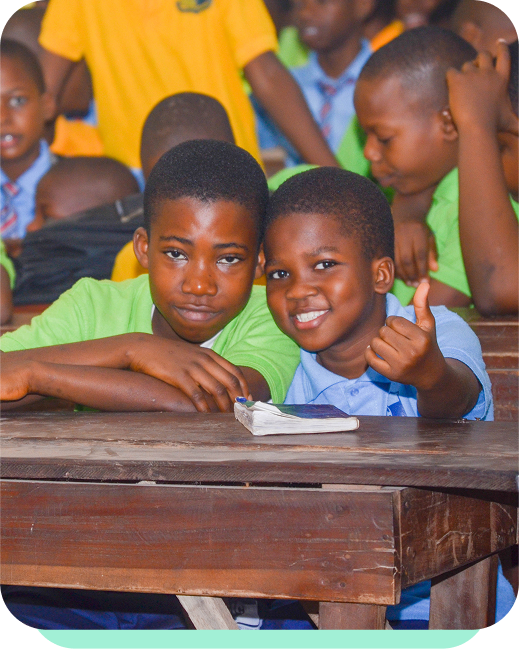
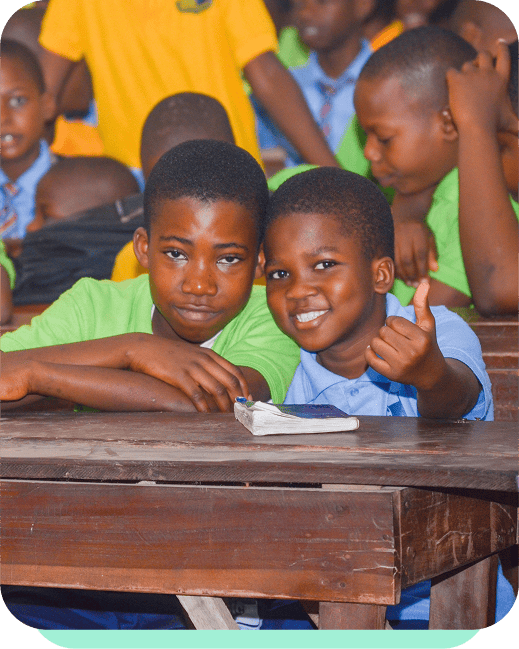
reduce image sizes

diff --git a/components/hero-section.tsx b/components/hero-section.tsx
@@ -1,11 +1,11 @@
 "use client";
 import { Button } from "@/components/ui/button";
 import Navbar from "./navbar";
-import { 
-  AnimatedContainer, 
-  AnimatedElement, 
-  AnimatedHeading, 
-  AnimatedText 
+import {
+  AnimatedContainer,
+  AnimatedElement,
+  AnimatedHeading,
+  AnimatedText,
 } from "@/components/ui/animated-element";
 import Link from "next/link";
 
@@ -13,37 +13,39 @@ export default function HeroSection() {
   return (
     <div className="md:p-2">
       <div
-        className="min-h-screen bg-[#F2F4FF] bg-[url('/images/hero-mobile.png')] md:bg-[url('/images/hero.png')] md:p-2 md:px-8 bg-cover bg-center bg-no-repeat relative overflow-x-hidden flex flex-col pb-[400px] rounded-xl md:rounded-[40px]"
+        className="min-h-screen md:min-h-[130vh] bg-[#F2F4FF] bg-[url('/images/hero-mobile.png')] md:bg-[url('/images/hero.png')] md:p-2 md:px-8 bg-cover bg-center bg-no-repeat relative overflow-x-hidden flex flex-col pb-[400px] rounded-xl md:rounded-[40px]"
         style={{ backgroundPosition: "center top" }}
       >
         <Navbar />
-        <div className="flex-grow flex items-center justify-center px-2 md:px-8 pt-10 md:pt-24 md:pb-40 w-full">
+        <div className="flex-grow flex items-center justify-center px-2 md:px-8 pt-10 md:-mt-[500px] lg:-mt-[230px] md:pb-40 w-full">
           <AnimatedContainer className="text-center w-full">
-            <AnimatedHeading 
+            <AnimatedHeading
               level={1}
               className="text-3xl md:text-[65px] font-medium text-secondary-900 leading-tight mb-8 w-full md:max-w-6xl mx-auto"
               delay={0.2}
             >
-              A Safe Space where struggling quietly is no longer the only option.
+              A Safe Space where struggling quietly is no longer the only
+              option.
             </AnimatedHeading>
-            
-            <AnimatedText 
+
+            <AnimatedText
               className="text-lg text-neutral-200 font-light mb-16 max-w-2xl mx-auto leading-relaxed"
               delay={0.4}
             >
-              MyGuy is Africa&apos;s first digital community that connects boys to
-              mentors, men to community, and everyone to healing.
+              MyGuy is Africa&apos;s first digital community that connects boys
+              to mentors, men to community, and everyone to healing.
             </AnimatedText>
-            
+
             <AnimatedElement
               delay={0.6}
               whileHover={{ scale: 1.05 }}
               whileTap={{ scale: 0.95 }}
             >
-              <Button className="text-white rounded-full px-8 py-4 text-lg font-medium" asChild>
-            <Link href="/waitlist">
-            Join the waitlist
-            </Link>
+              <Button
+                className="text-white rounded-full px-8 py-4 text-lg font-medium"
+                asChild
+              >
+                <Link href="/waitlist">Join the waitlist</Link>
               </Button>
             </AnimatedElement>
           </AnimatedContainer>

diff --git a/components/about-us.tsx b/components/about-us.tsx
@@ -24,11 +24,11 @@ export default function AboutUsSection() {
     },
   ];
   return (
-    <section className="bg-white mb-28">
+    <section className="bg-white mb-28 md:p-2">
       <>
         <div className="w-full md:max-w-6xl mx-auto text-center pt-24 pb-10 md:pb-24">
           <AnimatedContainer
-            className="grid grid-cols-1 md:grid-cols-2 lg:grid-cols-3 gap-8"
+            className="grid grid-cols-1 md:grid-co md:grid-cols-3 gap-8"
             variants={{
               hidden: {},
               visible: {
@@ -126,7 +126,7 @@ export default function AboutUsSection() {
         {/* My Partners section */}
         <div className="w-full max-w-5xl mx-auto text-center">
           <div className="flex justify-center items-center w-full">
-            <div className="grid grid-cols-1 md:grid-cols-2 lg:grid-cols-3 gap-5" style={{ width: "max-content" }}>
+            <div className="grid grid-cols-1 md:grid-cols-3 gap-5" style={{ width: "max-content" }}>
               <Image
                 src="/images/partner1.png"
                 alt="Partner 1"

diff --git a/components/about-founder-section.tsx b/components/about-founder-section.tsx
@@ -14,7 +14,7 @@ export default function AboutFounderSection() {
       <>
         <div className="w-full md:max-w-6xl mt-16 md:mt-32 mb-24 mx-auto flex justify-between flex-col lg:flex-row gap-2 md:gap-10 p-4 lg:p-0 font-light">
           <AnimatedElement
-            className="w-full lg:w-[35%]  justify-start"
+            className="w-full md:w-[35%]  justify-start"
             variants={fadeInRight}
             duration={0.8}
             delay={0.3}
@@ -28,7 +28,7 @@ export default function AboutFounderSection() {
                 className=""
               />
             </div>
-            <div className="mt-6 md:mt-10 flex relative flex-col  justify-center items-center">
+            <div className="mt-6 lg:mt-10 flex relative flex-col  justify-center items-center">
               <h1 className="md:text-[28px] z-10 text-secondary-900 text-3xl font-medium md:leading-[61px] tracking-[-1%] mb-2">
                 Solomon O. Ayodele
               </h1>

diff --git a/app/waitlist/page.tsx b/app/waitlist/page.tsx
@@ -6,7 +6,7 @@ import Link from "next/link";
 export default function Home() {
   return (
     <main
-      className="h-screen relative overflow-hidden flex items-center justify-center p-4"
+      className="h-screen relative overflow-hidden flex items-center justify-center p-2 md:p-4 bg-[#F2F4FF]"
       style={{
         backgroundImage: "url('/images/form-bg.png')",
         backgroundSize: "cover",
@@ -29,7 +29,7 @@ export default function Home() {
           />
         </Link>
       </div>
-      <div className="mt-12 w-full">
+      <div className="mt-[240px] md:mt-12 pb-5 w-full">
         <WaitlistForm />
       </div>
     </main>

diff --git a/components/navbar.tsx b/components/navbar.tsx
@@ -47,7 +47,7 @@ export default function Navbar() {
       </div>
 
       {/* Mobile view */}
-      <div className="md:hidden w-full space-x-8 bg-secondary-900 backdrop-blur-sm rounded-full px-8 py-3 flex justify-between items-center">
+      <div className="md:hidden w-full space-x-8 bg-secondary-900 backdrop-blur-sm rounded-full px-8 py-2 flex justify-between items-center">
         <Image
           src="/images/logo.png"
           alt="MyGuy Logo"

diff --git a/components/persona-section.tsx b/components/persona-section.tsx
@@ -82,7 +82,7 @@ export default function PersonaSection() {
                 transition: { duration: 0.3 } 
               }}
             >
-              <div className="relative w-full max-w-[340px] md:max-w-full md:h-[340px] mx-auto">
+              <div className="relative w-full max-w-[340px] lg:max-w-full lg:h-[340px] mx-auto">
                 <Image
                   src={persona.image || persona.bgColor}
                   alt={persona.title}

diff --git a/components/waitlist-form.tsx b/components/waitlist-form.tsx
@@ -80,7 +80,7 @@ export default function WaitlistForm() {
   }
 
   return (
-    <Card className="w-full max-w-xl mx-auto shadow-2xl border-0 bg-white max-h-[95vh] overflow-y-auto">
+    <Card className="w-full max-w-xl mx-auto shadow-2xl border-0 bg-white max-h-[95vh] overflow-y-auto mb-24 md:mb-0">
       <CardHeader className="text-center pb-4">
         <div className="mx-auto flex items-center justify-center">
           <Image

diff --git a/components/meet-the-team.tsx b/components/meet-the-team.tsx
@@ -71,7 +71,7 @@ export default function AboutTeamSection() {
         </AnimatedHeading>
 
         <AnimatedContainer
-          className="grid grid-cols-1 md:grid-cols-2 lg:grid-cols-4 gap-8"
+          className="grid grid-cols-1 md:grid-cols-3 lg:grid-cols-4 gap-8"
           variants={{
             hidden: {},
             visible: {
